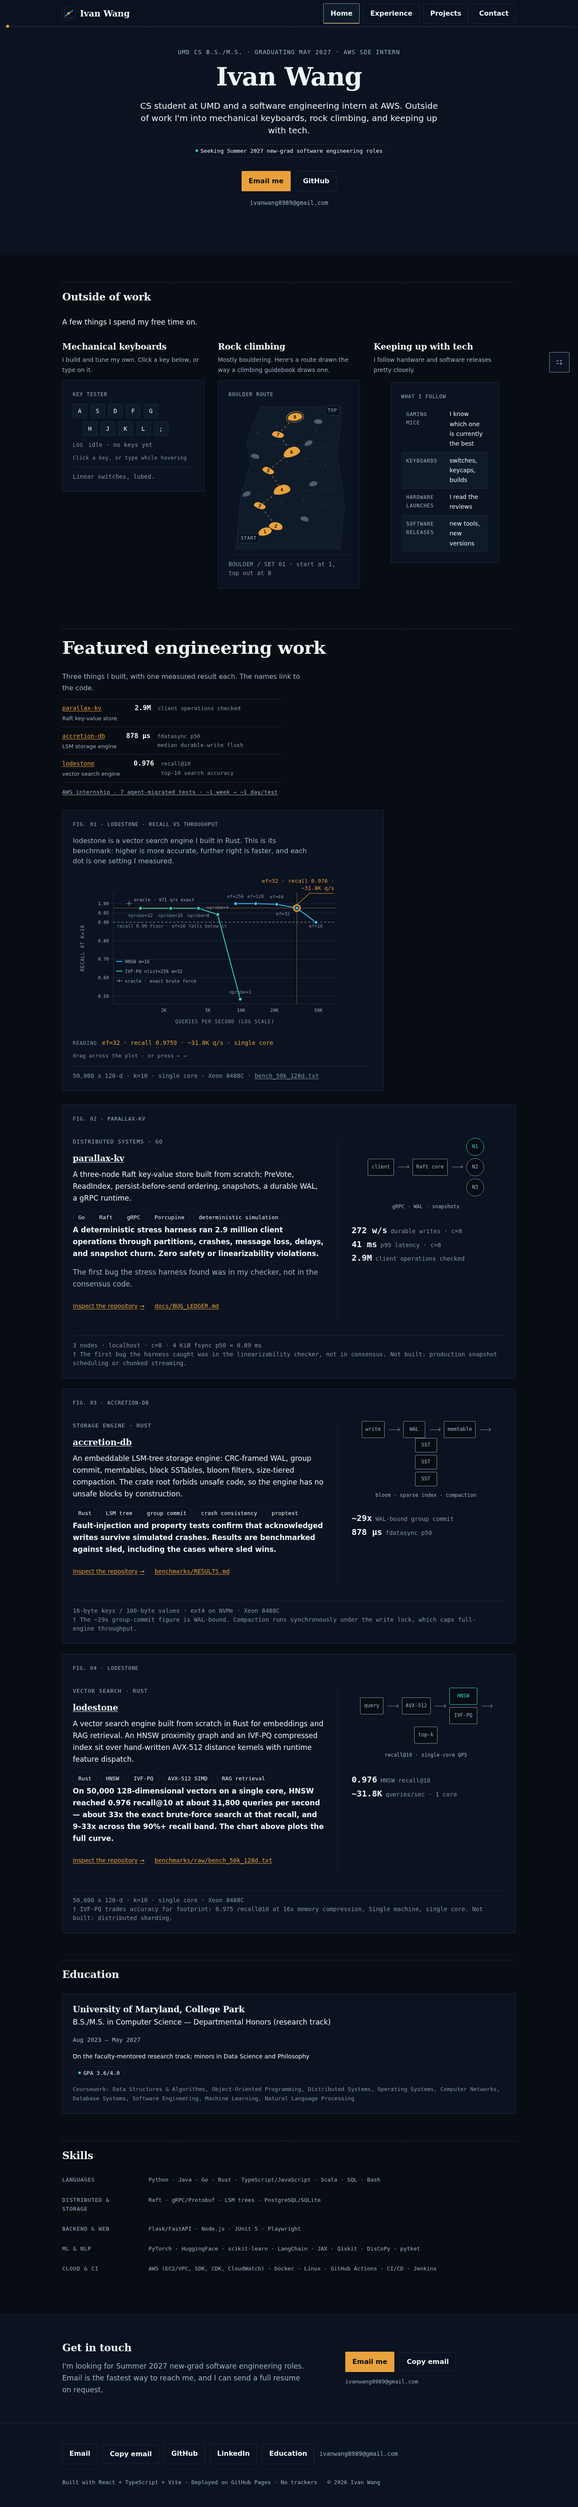
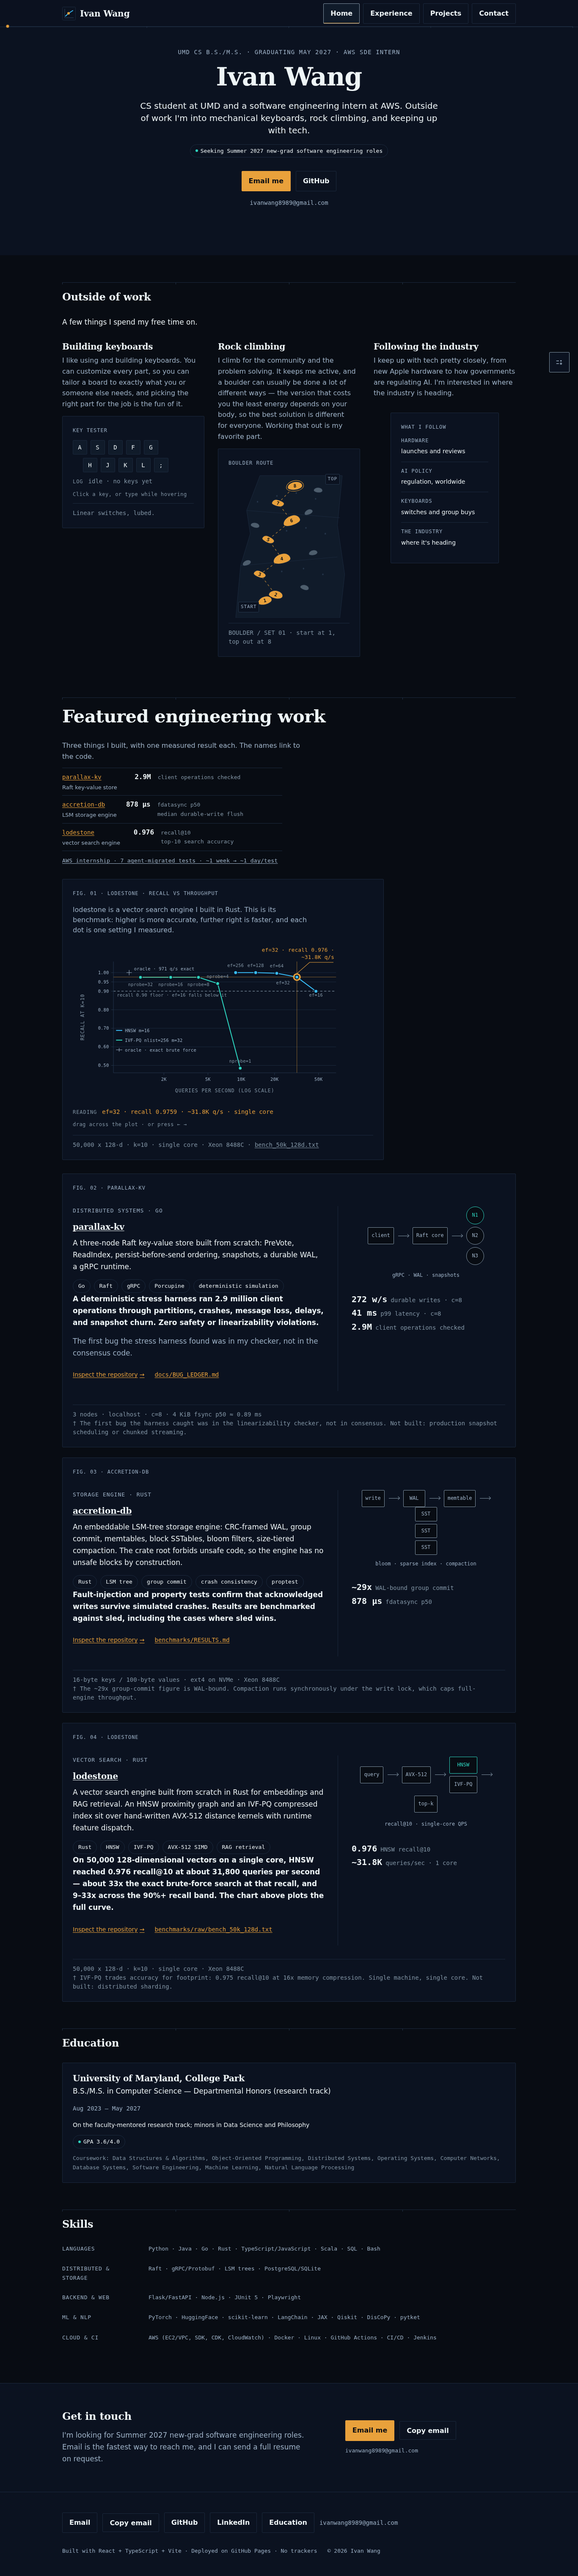
Hobbies: Ivan's own words for each interest; feed becomes a stacked list

diff --git a/src/content.ts b/src/content.ts
@@ -75,25 +75,31 @@ export const hero = {
 // 2026-07-27): no leadership claims, no metrics, just the three things he is
 // actually into, each with its own drawn figure. The old About paragraphs and
 // the club-officer line were retired at the same time.
+// Outside of work — the hobby section. The blurbs are Ivan's own words, lightly
+// edited for grammar only: his reasons for liking each thing, not a description
+// of the thing. Do not "improve" these into cleverness; the whole point is that
+// they sound like him.
 export const hobbies = {
   title: "Outside of work",
   intro: "A few things I spend my free time on.",
   keyboards: {
-    blurb: "Mechanical keyboards",
-    lead: "I build and tune my own. Click a key below, or type on it.",
+    blurb: "Building keyboards",
+    lead: "I like using and building keyboards. You can customize every part, so you can tailor a board to exactly what you or someone else needs, and picking the right part for the job is the fun of it.",
   },
   climb: {
     blurb: "Rock climbing",
-    lead: "Mostly bouldering. Here's a route drawn the way a climbing guidebook draws one.",
+    lead: "I climb for the community and the problem solving. It keeps me active, and a boulder can usually be done a lot of different ways — the version that costs you the least energy depends on your body, so the best solution is different for everyone. Working that out is my favorite part.",
   },
   tech: {
-    blurb: "Keeping up with tech",
-    lead: "I follow hardware and software releases pretty closely.",
+    blurb: "Following the industry",
+    lead: "I keep up with tech pretty closely, from new Apple hardware to how governments are regulating AI. I'm interested in where the industry is heading.",
+    // Short by design: this renders in a third-width column, so each note has
+    // to fit on one or two lines.
     feed: [
-      { topic: "gaming mice", note: "I know which one is currently the best" },
-      { topic: "keyboards", note: "switches, keycaps, builds" },
-      { topic: "hardware launches", note: "I read the reviews" },
-      { topic: "software releases", note: "new tools, new versions" },
+      { topic: "hardware", note: "launches and reviews" },
+      { topic: "AI policy", note: "regulation, worldwide" },
+      { topic: "keyboards", note: "switches and group buys" },
+      { topic: "the industry", note: "where it's heading" },
     ],
   },
 };

diff --git a/src/index.css b/src/index.css
@@ -1568,21 +1568,61 @@ img {
   color: var(--ink);
 }
 
+/* The blurbs are real paragraphs now (his own words about why he likes each
+   thing), so they read at body size with prose line-height, and the figure
+   below is the illustration rather than the content. */
 .hobby-lead {
-  margin: 0 0 var(--space-3);
-  font-size: var(--fs-400);
+  margin: 0 0 var(--space-4);
+  font-size: var(--fs-500);
+  line-height: 1.6;
   color: var(--ink-2);
+  text-wrap: pretty;
 }
 
 .hobby-cell .plate {
   max-width: none;
 }
 
-/* The feed plate: th is the topic, td the aside. Topics wrap — the base
-   .data-table th nowrap overflowed the plate by 20px at 320w. */
-.feed-table th {
-  text-align: left;
-  white-space: normal;
+/* The feed list: topic then note, stacked. A two-column table in a
+   third-width column wrapped both cells every two words; a definition list
+   gives each note the whole measure. */
+.feed-list {
+  margin: 0;
+  display: flex;
+  flex-direction: column;
+}
+
+.feed-row {
+  padding: var(--space-3) 0;
+  border-top: var(--hairline) solid var(--grid);
+}
+
+.feed-row:first-child {
+  border-top: 0;
+  padding-top: 0;
+}
+
+.feed-list dt {
+  font-family: var(--font-mono);
+  font-size: var(--fs-200);
+  letter-spacing: 0.08em;
+  text-transform: uppercase;
+  color: var(--ink-2);
+}
+
+.feed-list dd {
+  margin: var(--space-1) 0 0;
+  font-size: var(--fs-400);
+  color: var(--ink);
+}
+
+/* Bottom-align nothing: each hobby cell is its own column, and a figure that
+   stretches to match its neighbours would distort the drawings. Instead the
+   cells share a top edge and the figures keep their natural height. */
+.hobby-cell {
+  display: flex;
+  flex-direction: column;
+  align-items: stretch;
 }
 
 /* ------------------------------------------------------------- education */

diff --git a/src/pages/home/main.tsx b/src/pages/home/main.tsx
@@ -63,18 +63,18 @@ function Home() {
             <div className="hobby-cell">
               <h3 className="hobby-blurb">{hobbies.tech.blurb}</h3>
               <p className="hobby-lead">{hobbies.tech.lead}</p>
+              {/* A stacked list, not a two-column table: in a third-width
+                  column a table wrapped both cells every two words. */}
               <figure className="plate feed-fig">
                 <p className="plate-label">What I follow</p>
-                <table className="data-table feed-table">
-                  <tbody>
-                    {hobbies.tech.feed.map((row) => (
-                      <tr key={row.topic}>
-                        <th scope="row">{row.topic}</th>
-                        <td>{row.note}</td>
-                      </tr>
-                    ))}
-                  </tbody>
-                </table>
+                <dl className="feed-list">
+                  {hobbies.tech.feed.map((row) => (
+                    <div className="feed-row" key={row.topic}>
+                      <dt>{row.topic}</dt>
+                      <dd>{row.note}</dd>
+                    </div>
+                  ))}
+                </dl>
               </figure>
             </div>
           </div>
